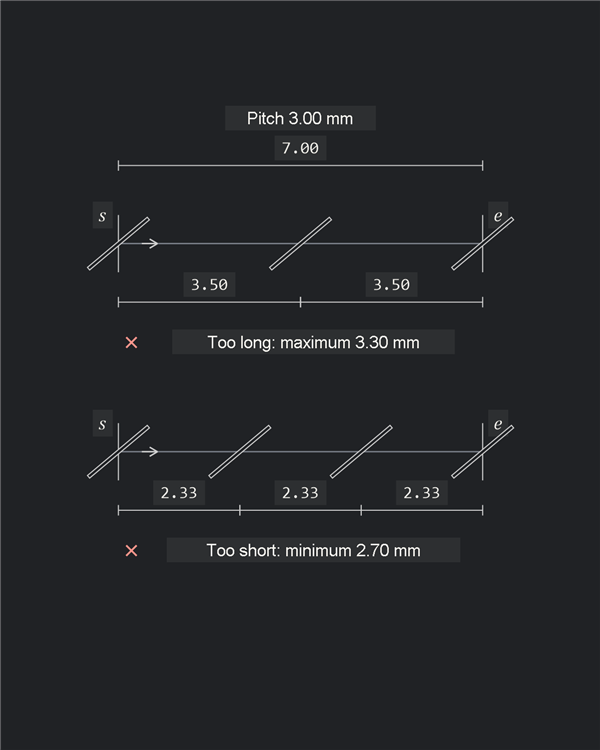
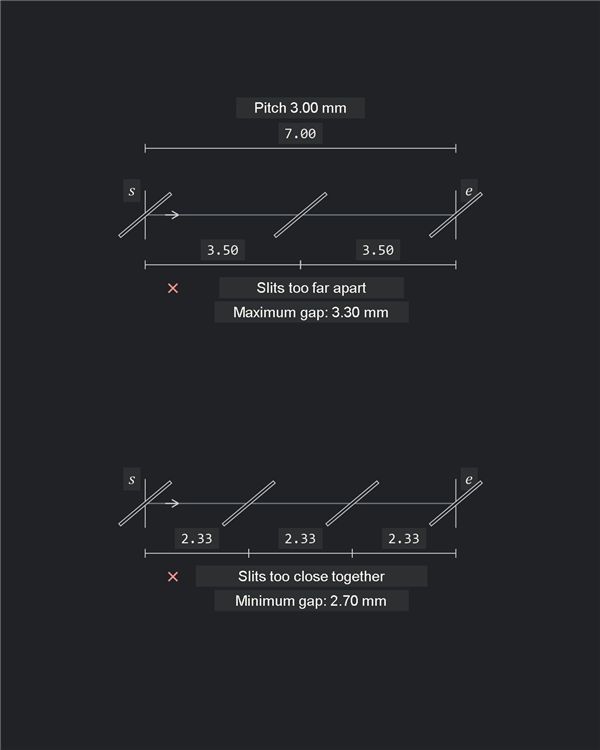
Separate rejected fit candidates and explain their gap limits

diff --git a/examples/illustrated/README.md b/examples/illustrated/README.md
@@ -177,7 +177,7 @@ Build retains half-speed timing. Redistribute residuals runs $50\%$ faster than 
 
 For a $7\,\mathrm{mm}$ span at $3\,\mathrm{mm}$ pitch, two equal gaps are too long and three are too short. Reject the span rather than move its fixed ends. `ILL-NOFIT`.
 
-Two aligned rows repeat the same guide span. Dimension every gap and put a small red cross beside each reason: $3.50\,\mathrm{mm}$ exceeds the $3.30\,\mathrm{mm}$ maximum; $2.33\,\mathrm{mm}$ falls below the $2.70\,\mathrm{mm}$ minimum. Static construction, without thread or fading.
+Two vertically separated rows repeat the same guide span. Dimension every centre-to-centre gap. Small red crosses identify slits too far apart ($3.50\,\mathrm{mm}$ exceeds the $3.30\,\mathrm{mm}$ maximum) or too close together ($2.33\,\mathrm{mm}$ falls below the $2.70\,\mathrm{mm}$ minimum). Static construction, without thread or fading.
 
 ![Two gaps are too long; three gaps are too short](assets/fit-rejected.png)
 
